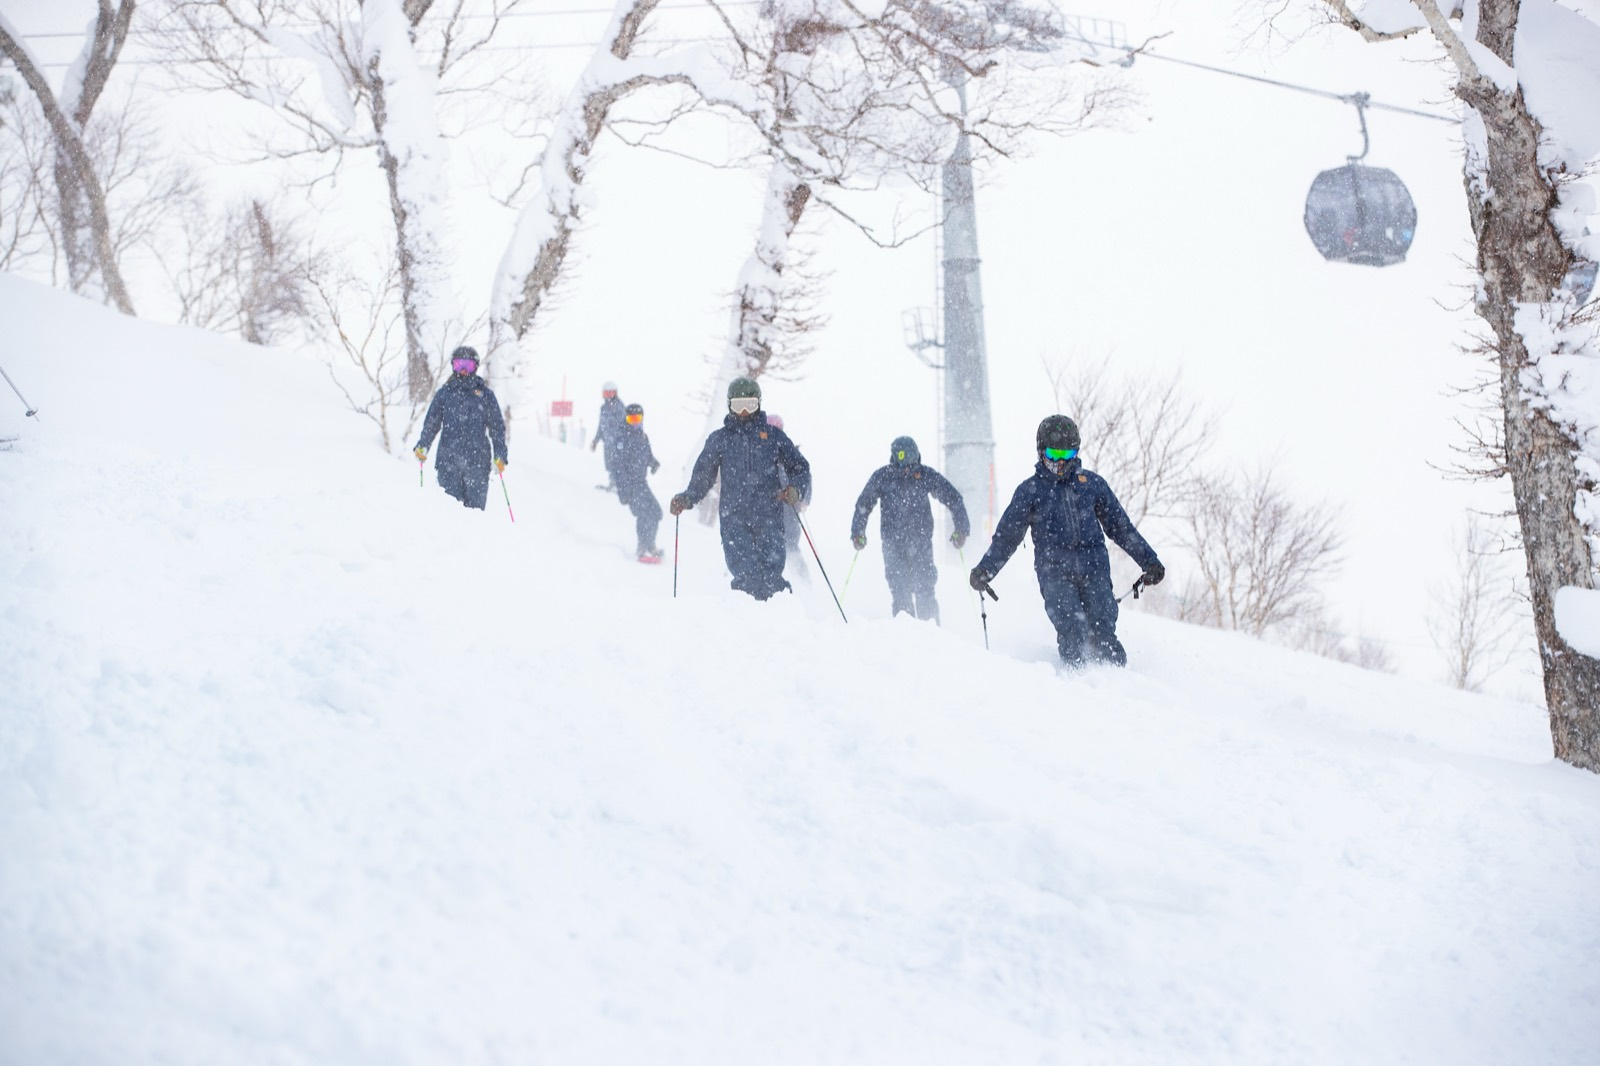
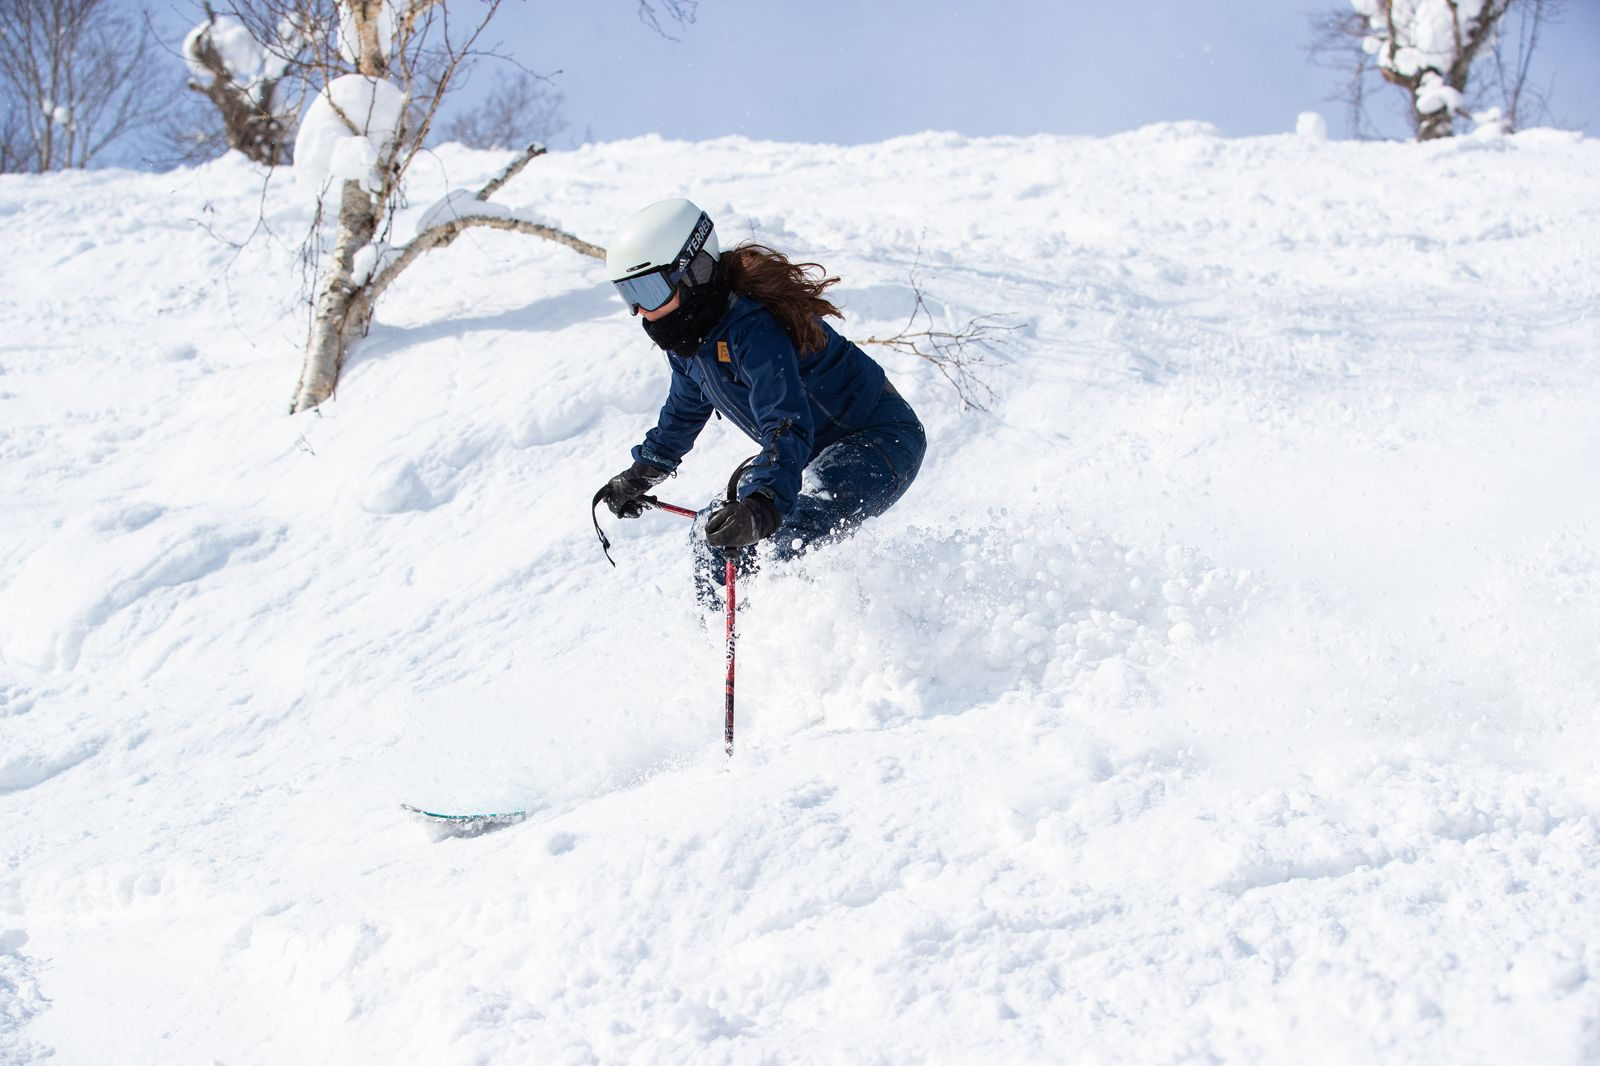
More dynamic hero and role photos; reframe team shot; fix Paula caption (no blizzard)

diff --git a/index.html b/index.html
@@ -591,7 +591,7 @@
 
 <!-- ──────────────── HERO ──────────────── -->
 <div class="hero">
-  <img src="hero.jpg" alt="Far East Snowsports instructor in the Niseko backcountry">
+  <img src="hero.jpg" alt="Far East Snowsports skier charging through deep powder in Niseko" style="object-position: center 52%;">
   <div class="hero-overlay">
     <div class="hero-logo">
       <img src="fes-logo.png" alt="Far East Snowsports">
@@ -636,7 +636,7 @@
     <h2>What we're actually doing</h2>
     <p>We do this so people can enjoy snowsports for the next 50 to 100 years, and beyond. That means treating snowsports instructing as a real job, helping the snow keep falling, looking after the community we live in, and bringing the next generation through.</p>
     <p>Everything we post should carry a bit of that weight. The feed isn't a highlight reel. It's how a small school in Niseko tells a long story, season after season, to the people who'll care about it.</p>
-    <img class="section-photo reveal" src="team-group.jpg" loading="lazy" alt="Far East Snowsports instructors together on the mountain in Niseko">
+    <img class="section-photo reveal" src="team-group.jpg" loading="lazy" alt="Far East Snowsports instructors together on the mountain in Niseko" style="object-position: center 72%;">
     <div class="card card-navy">
       <h3>Read these before you apply</h3>
       <p style="margin-bottom:0.9rem;">They tell you more about us than any job advert can.</p>
@@ -657,7 +657,7 @@
     <p style="font-size:1.12rem; font-weight:600; color:var(--navy); margin-bottom:1rem;">The best content out here doesn't come from behind a desk.</p>
     <p>You'll own how Far East shows up online. Some days that's a content calendar and a caption that genuinely sounds like us. Other days it's clicking into your boots to film a lesson on a powder morning.</p>
     <p>You'll plan, create, schedule and publish across <strong>Instagram, Facebook and Rednote</strong>, keep our voice consistent so the community comes to recognise it, and tell us each month what's working and what isn't.</p>
-    <img class="section-photo reveal" src="action.jpg" loading="lazy" alt="Instructors moving through fresh powder under the gondola on a snowy Niseko morning">
+    <img class="section-photo reveal" src="action.jpg" loading="lazy" alt="FES skier carving a stylish turn through powder under blue sky in Niseko">
     <div class="card">
       <h3 style="margin-top:0;">The shape we'd love</h3>
       <p style="margin-bottom:0;">The ideal person runs our social media and can teach on snow through the busy weeks. If that's you, even better. If it isn't, that's a conversation, not a dealbreaker.</p>
@@ -714,7 +714,7 @@
 <div class="band band-alt">
   <div class="band-inner">
     <img class="section-photo reveal" src="paula-team.jpg" loading="lazy" alt="Paula (left) with the FES team in Niseko, holding the Further East magazine">
-    <p class="photo-caption reveal">That's Paula on the left <span class="pin">👈</span> three seasons running this feed, still smiling in a blizzard. Your turn?</p>
+    <p class="photo-caption reveal">That's Paula on the left <span class="pin">👈</span> three seasons running this feed, and still grinning through the snow. Your turn?</p>
     <blockquote class="quote-block reveal" style="border-left:none; background:transparent; padding:1rem 0 0; display:block; text-align:center;">
       <p class="quote-text">"FES socials has been my baby for three years. To keep it growing, it needs someone on the spot, catching the pow turns, the team trips, the moments as they happen. If that sounds like you, I'd love to hand it over."</p>
       <span class="quote-attr">Paula · outgoing FES social media manager</span>
